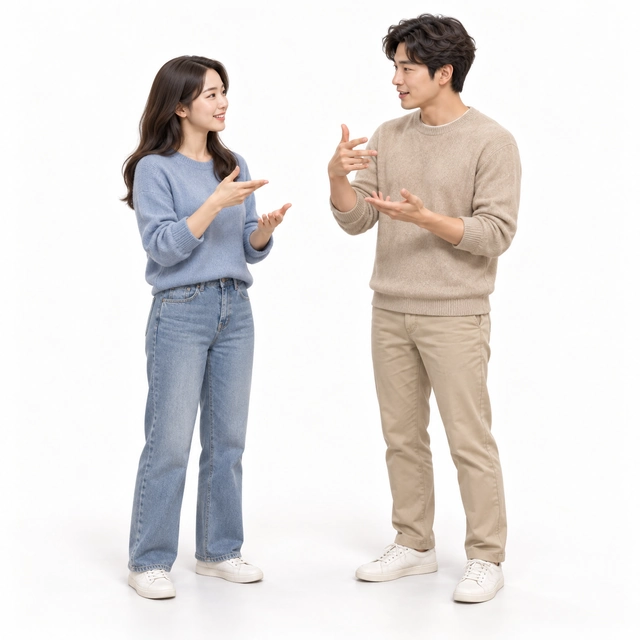
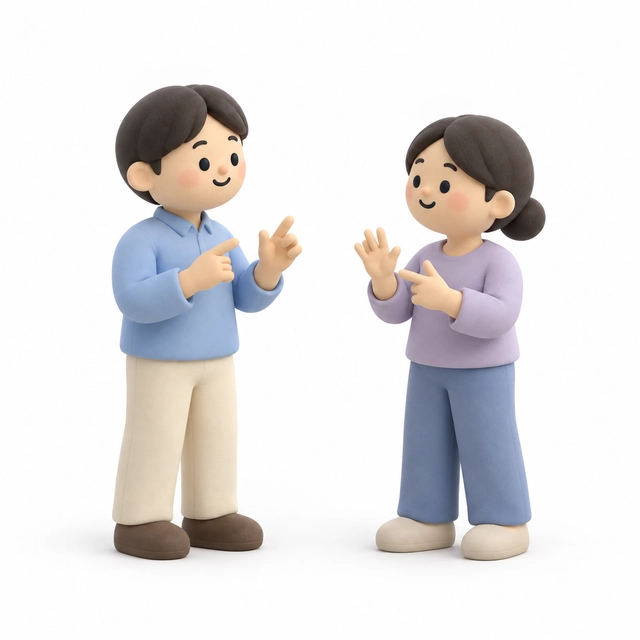
Make the phone layout keep up with the desktop one
Every panel added while reworking the desktop — the detail card, the mode
tabs, the endpoint buttons on each result row — had no rule inside a
max-width:740px block. The detail card was the worst of it: pinned at
left:444px, on a 390px screen it sat mostly off the side. It becomes the
sheet instead, inset from both edges above the nav, rising rather than
sliding since there is nothing to slide out from behind.

Two behaviours were broken rather than merely unstyled. The bottom nav's
길찾기 moved the mobile mode but not the panel switch the planner now
reads, so tapping it showed an empty sheet. And route mode hides the
browse list, which is correct until an endpoint is being picked — at
which point that list is the answer to what was just typed. Both are
fixed, and the second is why the app root now carries is-picking.

The phone layout cannot be opened in this environment, so the rules it
depends on are asserted against the stylesheets: that each new panel is
placed, that the desktop offset is overridden rather than inherited, that
the list returns while picking, and that the nav drives the same switch.
They would have caught all of the above.

diff --git a/src/CityExplorer.tsx b/src/CityExplorer.tsx
@@ -152,7 +152,7 @@ function choose(p:CityPlace){setPreview(false);setFollow(false);setPanelOpen(tru
  function useTransitJourney(simulation:TransitSimulation|null){setTransitSimulation(simulation);setTransitGeometry(simulation?transitSimulationGeoJSON(simulation):null);setTransitProgress(0);setTransitPreview(!!simulation);if(simulation){setRoute(null);setPreview(false);setFollow(true);view.current?.fitRoute(simulation.coordinates);setMobileMode('route');setSheetLevel('peek');}else setTransitPreview(false);}
  function savePrefs(values:Mobility,group:Companion[]){setPrefs(values);setCompanion(group);try{localStorage.setItem('galsuissyu-city-prefs',JSON.stringify({version:1,values,companion:group}));}catch{}setSurvey(false);}
  function locate(){if(!navigator.geolocation){setNotice('현재 위치를 지원하지 않는 브라우저예요.');return;}navigator.geolocation.getCurrentPosition(p=>point([p.coords.longitude,p.coords.latitude],true),()=>setNotice('현재 위치를 가져오지 못했어요. 지도에서 직접 선택할 수 있어요.'),{timeout:10000,maximumAge:60000});}
- return <div className={'daejeon-app mobile-'+mobileMode+' sheet-'+sheetLevel+(panelOpen?'':' panel-collapsed')}>
+ return <div className={'daejeon-app mobile-'+mobileMode+' sheet-'+sheetLevel+(panelOpen?'':' panel-collapsed')+(picking?' is-picking':'')}>
   <div className="dj-mobile-search"><button aria-label="검색 닫고 지도 보기" onClick={()=>{setMobileMode('browse');setSelected(null);setPicking(null);setQuery('');setSheet(false);mobileSearch.current?.blur();}}>‹</button><input ref={mobileSearch} aria-label="장소 또는 편의시설 검색" placeholder={picking?(picking==='from'?'출발지 검색':'도착지 검색'):'장소·주소·편의시설 검색'} value={query} onFocus={()=>{setSelected(null);setMobileMode('search');setSheet(true);}} onChange={e=>{setQuery(e.target.value);setSelected(null);setMobileMode('search');setSheet(true);}} onKeyDown={e=>{if(e.key==='Enter'){mobileSearch.current?.blur();setSheetLevel('half');}}}/>{query&&<button aria-label="검색어 지우기" onClick={()=>setQuery('')}>×</button>}<button aria-label="지도 설정과 시설 필터" aria-expanded={mapMenu} onClick={()=>setMapMenu(true)}>☷</button></div>
   <header className="dj-header"><a className="dj-brand" href="/"><img src="/icon-192.png" alt=""/><strong>갈수있슈<small>나에게 맞는 대전 여행길</small></strong></a><div className="dj-location"><i/>대전광역시 <span>5개 구 전체</span></div><nav aria-label="지도 화면"><button className="active" aria-current="page">대전 지도</button><button onClick={()=>onPilotAssets()}>3D 에셋 살펴보기</button></nav><button className="dj-profile" onClick={()=>setSurvey(true)}>☷ <span>나의 이동 조건</span></button></header>
   <main className="dj-layout">
@@ -192,7 +192,7 @@ function choose(p:CityPlace){setPreview(false);setFollow(false);setPanelOpen(tru
         {!route&&!transitSimulation&&<><button className="dj-demo-shortcut" disabled={!data} onClick={runDemo}><b>▶ 대전역 → 한빛탑 3D로 보기</b><small>보행 · 지하철 · 환승 · 버스를 이어서 재생해요</small></button><button className="dj-expo-shortcut" onClick={onStationExperience}>대전역 광장 3D 체험 <span>↗</span></button></>}
    </section>
   </main>
-  <nav className="dj-mobile-nav" aria-label="주요 기능"><button aria-current={mobileMode==='browse'?'page':undefined} onClick={()=>{setMobileMode('browse');setSelected(null);setPicking(null);setSheet(false);mobileSearch.current?.blur();}}><span>⌖</span>지도</button><button aria-current={mobileMode==='search'?'page':undefined} onClick={()=>{setSelected(null);setMobileMode('search');setSheet(true);mobileSearch.current?.focus();}}><span>⌕</span>검색</button><button aria-current={mobileMode==='route'?'page':undefined} onClick={()=>{setMobileMode('route');setPicking(null);setSheetLevel(route?'full':'half');mobileSearch.current?.blur();}}><span>⇄</span>길찾기</button><button onClick={()=>setSurvey(true)}><span>☷</span>이동 조건</button></nav>
+  <nav className="dj-mobile-nav" aria-label="주요 기능"><button aria-current={mobileMode==='browse'?'page':undefined} onClick={()=>{setMobileMode('browse');setPanelMode('search');setSelected(null);setPicking(null);setSheet(false);mobileSearch.current?.blur();}}><span>⌖</span>지도</button><button aria-current={mobileMode==='search'?'page':undefined} onClick={()=>{setSelected(null);setPanelMode('search');setMobileMode('search');setSheet(true);mobileSearch.current?.focus();}}><span>⌕</span>검색</button><button aria-current={mobileMode==='route'?'page':undefined} onClick={()=>{setPanelMode('route');setMobileMode('route');setSelected(null);setPicking(null);setSheetLevel(route?'full':'half');mobileSearch.current?.blur();}}><span>⇄</span>길찾기</button><button onClick={()=>setSurvey(true)}><span>☷</span>이동 조건</button></nav>
   <Dialog.Root open={mapMenu} onOpenChange={setMapMenu}><Dialog.Portal><Dialog.Overlay className="dj-survey-overlay"/><Dialog.Content className="dj-survey dj-map-menu"><Dialog.Close className="dj-survey-close" aria-label="지도 설정 닫기">×</Dialog.Close><Dialog.Title>지도 설정</Dialog.Title><Dialog.Description>필요한 장소와 지도 도구만 골라보세요.</Dialog.Description><button className="dj-route-button" onClick={()=>{setMapMenu(false);onStationExperience();}}>대전역 광장 3D 체험 →</button><h3>지역</h3><select aria-label="탐색 지역" value={district} onChange={e=>changeDistrict(e.target.value)}>{['전체','서구','유성구','동구','중구','대덕구'].map(n=><option key={n} value={n}>{n==='전체'?'대전 전체':n}</option>)}</select><h3>시설·장소</h3><div className="dj-menu-options">{['all','toilet','elevator','station','park','attraction','culture','food'].map(c=><button key={c} aria-pressed={category===c} onClick={()=>{setCategory(c);setSelected(null);setMobileMode('browse');setSheet(false);setMapMenu(false);}}>{categories[c].icon} {categories[c].label}</button>)}</div><h3>지도 도구</h3><div className="dj-menu-options"><button onClick={()=>view.current?.zoom(1.5)}>확대 ＋</button><button onClick={()=>view.current?.zoom(1/1.5)}>축소 −</button><button disabled={compat} onClick={()=>{view.current?.tilt();setMapMenu(false);}}>2D / 3D 전환</button><button onClick={()=>{view.current?.overview();setMapMenu(false);}}>대전 전체 보기</button></div><button className="dj-route-button" disabled={!data} onClick={()=>{setMapMenu(false);setDistrict('전체');setCategory('all');const p=getPilotPlace(data,pilotStops[0].id);if(p)choose(p);}}>대전역 3D 시범 구간 →</button><fieldset className="terrain-settings" disabled={compat}><legend>지형 높낮이</legend><div>{[[0,"평면"],[1,"기본"],[1.5,"강조"],[2,"더 강조"]].map(([value,label])=><button key={value} aria-pressed={terrainStrength===value} onClick={()=>setTerrainStrength(Number(value))}>{label}</button>)}</div><p>지형 표시 {terrainStrength}배 · 경사 안내 수치는 바뀌지 않아요.</p><button onClick={()=>{setMapMenu(false);view.current?.fly([127.455,36.31],14);}}>식장산 주변 지형 보기 ↗</button></fieldset><button className="dj-model-link" onClick={()=>{setMapMenu(false);onPilotAssets();}}>3D 에셋 살펴보기 ↗</button><p className="dj-quiet">일부 지역은 건물 자료가 빠져 있어요. 빈 공간이 실제 공터라는 뜻은 아니에요. 다리의 폭·난간, 창문·나무·차량은 일부 재구성이며, 통행 가능 여부를 뜻하지 않아요.</p></Dialog.Content></Dialog.Portal></Dialog.Root>
   <MobilitySurvey open={survey} onOpenChange={setSurvey} value={prefs} onSave={savePrefs} coverage={coverage} companion={companion} tour={tour?.counts??null}/>
   {notice&&<div className="dj-toast" role="status">{notice}</div>}

diff --git a/src/mobile-map.css b/src/mobile-map.css
@@ -64,6 +64,31 @@
  .map-tile-loading{top:var(--search-bottom);bottom:auto;left:12px;max-width:calc(100% - 78px);padding:6px 9px;font-size:12px;line-height:1.4;white-space:nowrap;overflow:hidden;text-overflow:ellipsis;background:#ffffffda}
  .dj-pilot-loading.is-error{top:auto;bottom:12px;left:12px;max-width:calc(100% - 24px);font-size:13px;padding:9px;line-height:1.5}.mobile-place .dj-pilot-loading.is-error{bottom:100px}
  .dj-map-stage .maplibregl-ctrl-bottom-left,.dj-map-stage .maplibregl-ctrl-bottom-right{bottom:0}.mobile-place .dj-map-stage .maplibregl-ctrl-bottom-left,.mobile-place .dj-map-stage .maplibregl-ctrl-bottom-right{bottom:94px}.sheet-half .dj-map-stage .maplibregl-ctrl-bottom-left,.sheet-half .dj-map-stage .maplibregl-ctrl-bottom-right{bottom:42dvh}
+ /* The desktop opens a place beside the list. A phone has no room beside anything, so the detail
+    card becomes the sheet itself: same rounded top, same place above the nav, and it covers the
+    list rather than sitting next to it. */
+ /* Route mode hides the browse list, but while an endpoint is being picked that list IS the answer
+    to what was just typed, so it has to come back. */
+ .is-picking.mobile-route .dj-browse-results{display:block}
+ .is-picking .dj-panel,.is-picking .dj-panel.expanded{height:calc(100% - var(--search-bottom) - var(--nav-height) - 16px)}
+ .is-picking .dj-scroll{display:block}
+ .dj-detail-pane{position:absolute;left:10px;right:10px;top:auto;bottom:calc(var(--nav-height) + 8px);width:auto;max-width:none;height:calc(100% - var(--search-bottom) - var(--nav-height) - 16px);border-radius:16px;z-index:9;animation:detail-rise .24s cubic-bezier(.22,.7,.3,1)}
+ @keyframes detail-rise{from{transform:translateY(14px);opacity:0}to{transform:translateY(0);opacity:1}}
+ .dj-detail-head{padding:12px 8px 12px 4px}
+ .dj-detail-head strong{font-size:16px}
+ .dj-detail-scroll{padding:14px 16px 24px}
+ .dj-detail-actions button{min-height:46px;font-size:14px}
+ .mobile-browse .dj-detail-pane,.mobile-search .dj-detail-pane{display:none}
+ /* Two tabs and a search box are all that fit above the sheet; the tabs ride inside it. */
+ .dj-panel-tabs{margin-top:10px}
+ .dj-panel-tabs button{min-height:42px;font-size:14px}
+ /* A result row keeps its endpoint buttons, stacked so the name is never squeezed to two letters. */
+ .dj-place-row{gap:10px;padding:4px 0}
+ .dj-place-main{padding:11px 0}
+ .dj-row-actions{flex-direction:column;gap:4px}
+ .dj-row-actions button{min-height:34px;padding:0 10px;font-size:12px}
+ .dj-place-symbol{min-width:52px;width:52px;height:56px}
+ .dj-place-symbol i{font-size:18px}
  .map-data-error{bottom:100px;z-index:10}.map-fatal-error{top:40%;bottom:auto}
 }
 

diff --git a/public/assets/survey/README.md b/public/assets/survey/README.md
@@ -1,0 +1,3 @@
+Six accessibility survey illustrations generated with built-in imagegen on 2026-09-20. All six follow the user-supplied clay-figurine reference: rounded Korean miniature characters or objects, matte sculpted texture, simplified faces, pastel colors, warm white background, soft daylight, and no text, UI, or logos. They are not photographs of real people or facilities.
+
+Subjects: Korean adult in a manual wheelchair; compact stairs and adjacent ramp; elderly Korean adult resting on a bench with a cane; Korean adult pushing a baby stroller; Korean adult using a white cane over tactile paving; two Korean adults conversing in sign language. Source PNGs were converted to opaque 640x640 WebP files for the app.
